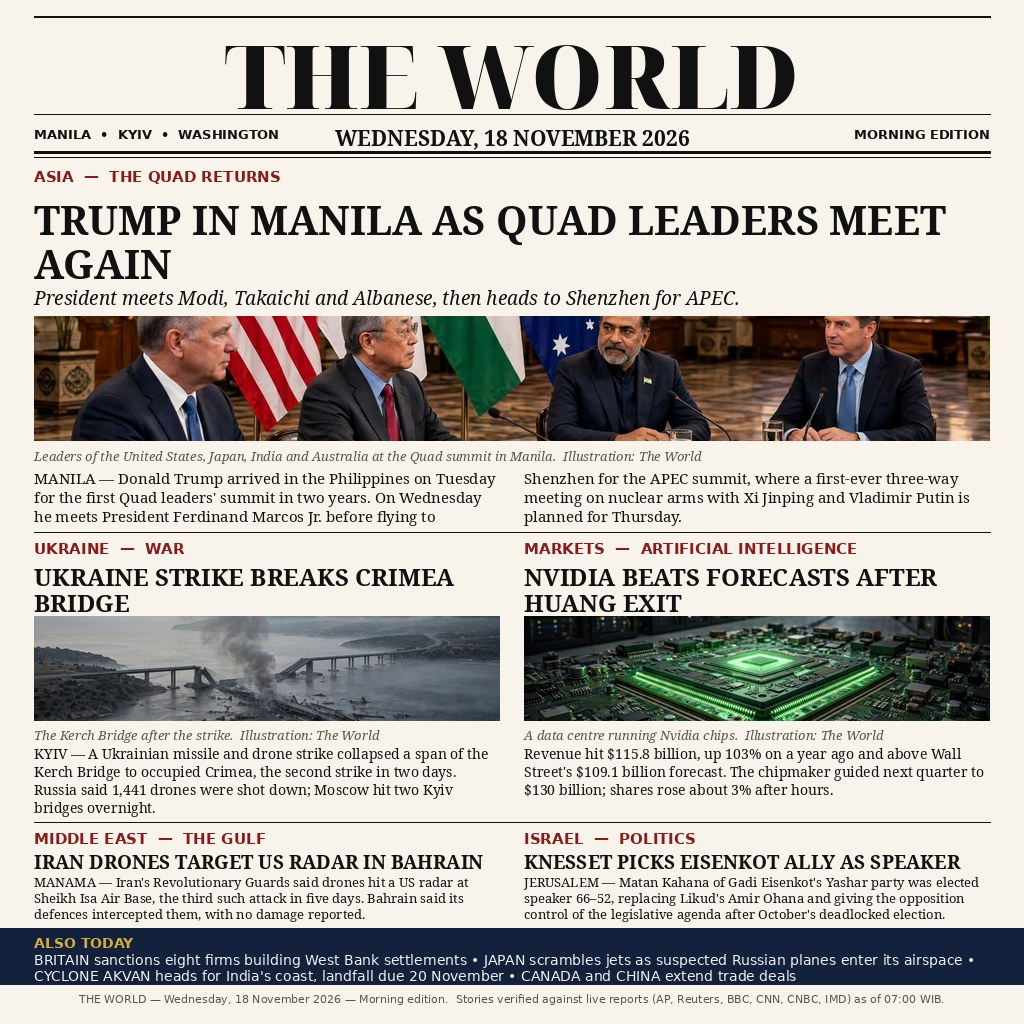
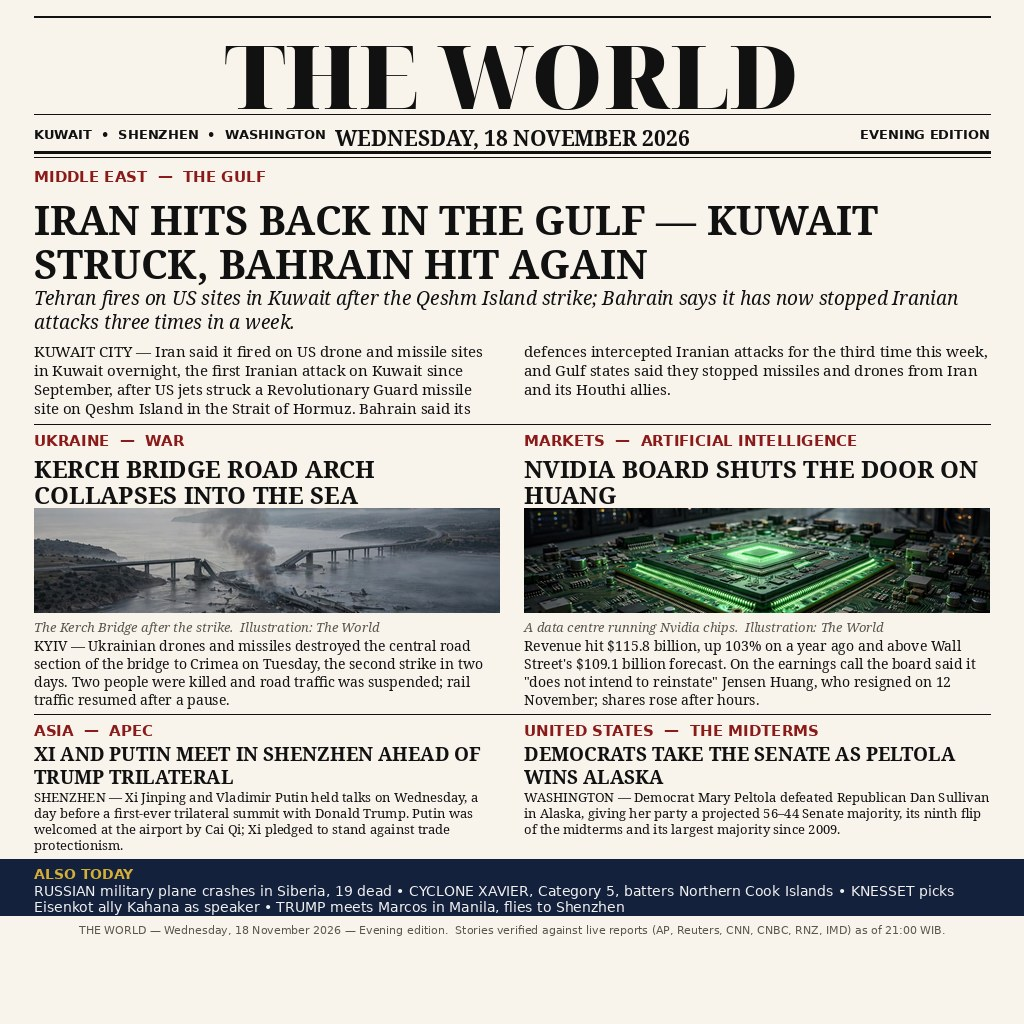
Evening edition refresh: Gulf lead, Kerch, Nvidia board, Shenzhen, Peltola

diff --git a/README.md b/README.md
@@ -4,41 +4,57 @@ An entry for make.fun's "Sum up 18 November's world news in one image" bounty.
 
 The image is a newspaper front page. The masthead reads "THE WORLD" and the
 date line is Wednesday, 18 November 2026. It sums up the day in five stories,
-each checked against live news sources on 18 November 2026 (morning edition —
-news as reported by 07:00 WIB; a refresh pass with the full day's news is
-planned before the deadline):
+each checked against live news sources on 18 November 2026 (evening edition —
+the full day's news as reported by 21:00 WIB):
 
-1. **Trump in Manila as Quad leaders meet again.** Donald Trump arrived in
-   the Philippines for the first Quad leaders' summit in two years, meets
-   President Ferdinand Marcos Jr. on Wednesday, then heads to Shenzhen for
-   APEC and a first-ever three-way meeting on nuclear arms with Xi Jinping
-   and Vladimir Putin.
-2. **Ukraine strike breaks Crimea Bridge.** A Ukrainian missile and drone
-   strike collapsed a span of the Kerch Bridge to occupied Crimea, the
-   second strike in two days; Russia said 1,441 drones were shot down, and
-   Moscow hit two Kyiv bridges overnight in reply.
-3. **Nvidia beats forecasts after Huang exit.** Revenue hit $115.8 billion,
-   up 103% on a year ago and above Wall Street's $109.1 billion forecast;
-   the chipmaker guided next quarter to $130 billion and shares rose about
-   3% after hours.
-4. **Iran drones target US radar in Bahrain.** The Revolutionary Guards said
-   drones hit a US radar at Sheikh Isa Air Base, the third such attack in
-   five days; Bahrain said its defences intercepted them, with no damage
-   reported.
-5. **Knesset picks Eisenkot ally as speaker.** Matan Kahana of Gadi
-   Eisenkot's Yashar party was elected speaker 66–52, replacing Likud's
-   Amir Ohana and giving the opposition control of the legislative agenda
-   after October's deadlocked election.
+1. **Iran hits back in the Gulf — Kuwait struck, Bahrain hit again.** Iran
+   said it fired on US drone and missile sites in Kuwait overnight, the
+   first Iranian attack on Kuwait since September, after US jets struck a
+   Revolutionary Guard missile site on Qeshm Island in the Strait of Hormuz;
+   Bahrain said its defences intercepted Iranian attacks for the third time
+   this week.
+2. **Kerch Bridge road arch collapses into the sea.** Ukrainian drones and
+   missiles destroyed the central road section of the bridge to Crimea on
+   Tuesday, the second strike in two days; two people were killed and road
+   traffic was suspended, while rail traffic resumed after a pause.
+3. **Nvidia board shuts the door on Huang.** Revenue hit $115.8 billion, up
+   103% on a year ago and above Wall Street's $109.1 billion forecast; on the
+   earnings call the board said it "does not intend to reinstate" Jensen
+   Huang, who resigned on 12 November, and shares rose after hours.
+4. **Xi and Putin meet in Shenzhen ahead of Trump trilateral.** Xi Jinping
+   and Vladimir Putin held talks on Wednesday, a day before a first-ever
+   trilateral summit with Donald Trump; Putin was welcomed at the airport by
+   Cai Qi and Xi pledged to stand against trade protectionism.
+5. **Democrats take the Senate as Peltola wins Alaska.** Democrat Mary
+   Peltola defeated Republican Dan Sullivan in Alaska, giving her party a
+   projected 56–44 Senate majority, its ninth flip of the midterms and its
+   largest majority since 2009.
 
-Also today: Britain sanctions eight firms building West Bank settlements;
-Japan scrambles jets as suspected Russian planes enter its airspace;
-Cyclone Akvan heads for India's coast, landfall due 20 November; Canada and
-China extend trade deals.
+Also today: Russian military plane crashes in Siberia, 19 dead; Cyclone
+Xavier, Category 5, batters the Northern Cook Islands; Knesset picks
+Eisenkot ally Kahana as speaker; Trump meets Marcos in Manila, flies to
+Shenzhen.
 
 Every story was verified against live news sources on 18 November 2026 (see
 SOURCES.md in the competition workspace). All text is set in real fonts, so
 nothing is garbled, and the pictures are AI-generated editorial illustrations
 made for this front page.
+
+## Verification (evening refresh, 19 November 2026)
+
+- Lead cross-checked to Reuters before rendering: Iran fired on US drone
+  and missile sites in Kuwait overnight after the US struck Qeshm Island;
+  first Iranian attack on Kuwait since September; Bahrain intercepted
+  Iranian attacks three times in a week.
+- Xi–Putin Shenzhen talks, Peltola's 56–44 Senate win, the Nvidia board's
+  "does not intend to reinstate" line, the Kerch arch collapse (2 killed,
+  road shut, rail resumed), the Siberia An-12 crash (19 dead) and Cyclone
+  Xavier (Category 5, Northern Cook Islands — not Cyclone Akvan) were each
+  re-verified against live reports before rendering; no brief fact failed.
+- Determinism: two runs byte-identical, entry.png sha256
[1 lines of base64/hex data omitted]
+  (275,583 bytes). Grader simulation (bare `node main.ts`, no args, no env,
+  output to /output) writes identical bytes.
 
 ## How it works
 
